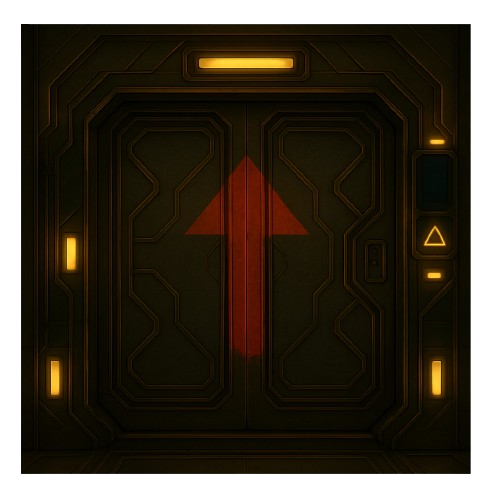
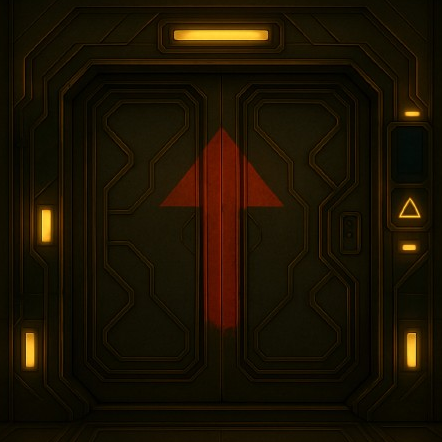
Slike u mapi /teksture/level3/VrataPrijelaz su uređene da nemaju veći background nego sam sadržaj, uređena vrata na samoj mapi level 4 (4. mapa sveukupno)

diff --git a/map.py b/map.py
@@ -140,7 +140,7 @@ MAPS = {
         [28, _, _, _, _, _, _,26, _, _, _, _, _, _,26,25, _, _, _,25,26, _, _, _, _, _, _,28, _, _, _, _, _,26,26], # 18
         [25, _, _, _, _,28,28,25,26, _, _, _, _, _,26,25, _, _, _,25,26, _, _, _, _, _,25,25, _, _, _, _, _,26,26], # 19
         [25,28,28,25,28,28,28,25,28,28,28,28,25,28,28,25, _, _, _,25,28,28,28,28,28,25,25,25,28,28,25,28,28,28,25], # 20
-        [25,25,25,25,25,25,25,25,25,25,25,25,25,25,25,25,25,29,25,25,25,25,25,25,25,25,25,25,25,25,25,25,25,25,25], # 21
+        [25,25,25,25,25,25,25,25,25,25,25,25,25,25,25,25,25,39,25,25,25,25,25,25,25,25,25,25,25,25,25,25,25,25,25], # 21
         [25, _, _, _, _, _, _, _, _, _, _, _, _, _, _, _, _, _, _, _, _, _, _, _, _, _, _, _, _, _, _, _, _, _,25], # 22
         [25, _, _, _, _, _, _, _, _, _, _, _, _, _, _, _, _, _, _, _, _, _, _, _, _, _, _, _, _, _, _, _, _, _,25], # 23
         [25, _, _, _, _, _, _,25, _, _, _, _, _, _, _, _, _, _, _, _, _, _, _, _, _, _, _,25, _, _, _, _, _, _,25], # 24

diff --git a/object_renderer.py b/object_renderer.py
@@ -149,7 +149,9 @@ class ObjectRenderer:
             27: self.get_texture('resources/teksture/level3/zid1.png'), ## labaratorijski zid sa najviše detalja alien
             28: self.get_texture('resources/teksture/level3/zid4.png'), ## labaratorijski zid sa manje detalja biljka
             29: self.get_texture('resources/teksture/level3/vrata2.jpg'), ## žučkasta vrata za mapu lagano otvorena
-            32: self.get_texture('resources/teksture/level3/VrataPrijelaz.png'), #vrata prijelaz na sljedeci level
+            32: self.get_texture('resources/teksture/level3/VrataPrijelaz/0.png'),
+            39: self.get_texture('resources/teksture/level3/VrataPrijelaz/1.png'), #vrata prijelaz na sljedeci level
+
 
             #uvodni level
             33: self.get_texture('resources/teksture/uvod/zid1.jpg'), #bijeli zid crvena svjetla manja količina krvi u sredini
